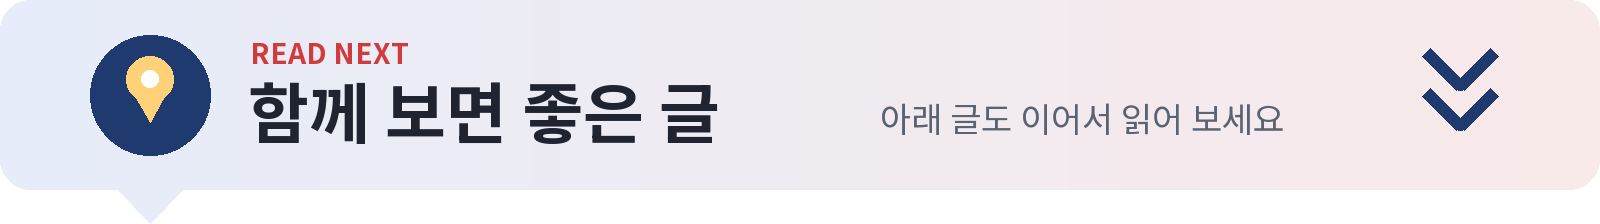
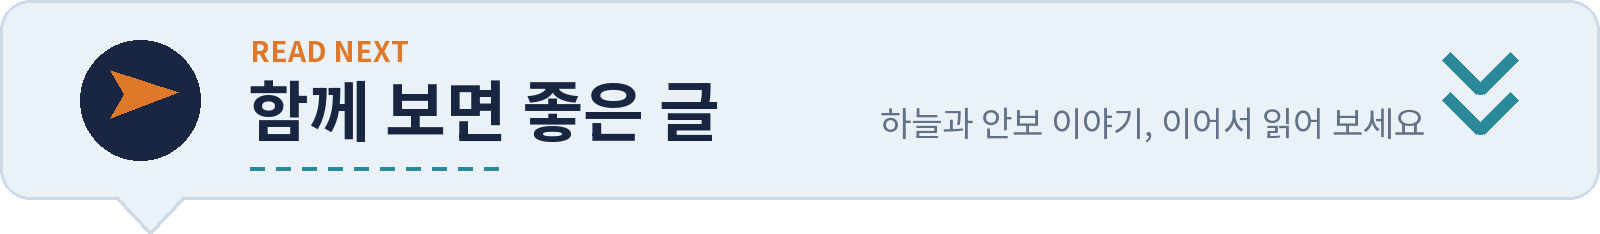
'함께 보면 좋은 글' 규칙 추가(모든 블로그에서 고르기, 블로그·카테고리·작성일 표기, 배너는 글마다 새로) 및 방공식별구역 글에 적용

diff --git a/문서/네이버-코딩가이드/20261124_방공식별구역-KADIZ/index.html b/문서/네이버-코딩가이드/20261124_방공식별구역-KADIZ/index.html
@@ -15,7 +15,7 @@
 - 02-세-가지-하늘.png (AI, 가로) — 영공·방공식별구역·비행정보구역의 넓이와 목적 차이(실제 지도 아닌 개념도)
 - 03-군용기가-들어오면.png (AI, 세로) — 통보 없이 들어온 군용기에 대한 대응 순서
 - 04-경계경보-공습경보.png (AI, 가로) — 두 경보의 뜻과 할 일
-- 05-함께-보면-좋은-글.png (공통 배너, 밝은색) — 위급재난문자 글(11/18)
+- 05-함께-보면-좋은-글.png (AI, 1600×234, 이 글 디자인에 맞춘 배너: 하늘빛·남색 원 안 주황 비행기) — 위급재난문자 글(11/18)·구글 지도 반출 글(11/16, 안보 때문에 막힌 지도 이야기). 모든 블로그에서 찾았으나 티스토리 쪽에는 맞는 글이 없었음
 
 [근거]
 - 영공·영해 12해리(약 22km): 영해 및 접속수역법, 국제법 일반 지식.
@@ -101,4 +101,5 @@
 <p style="font-size:16px;">두 말은 무게가 다릅니다.<br>뉴스를 볼 때 어느 쪽인지 먼저 보면, 상황을 훨씬 차분하게 읽을 수 있습니다.</p>
 
 <p style="font-size:16px;color:#e60000;font-weight:bold;">[[ 이미지: 함께 보면 좋은 글 (05-함께-보면-좋은-글.png) ]]</p>
-<p style="font-size:16px;">수능 위급재난문자, 재난문자 꺼 놨는데 왜 울릴까? (링크 자리)</p>
+<p style="font-size:16px;">수능 위급재난문자, 재난문자 꺼 놨는데 왜 울릴까? (네이버 코딩가이드 · 컴퓨터·IT · 2026.11.18 작성 · 링크 자리)</p>
+<p style="font-size:16px;">한국에서는 왜 구글 지도 길찾기가 안 될까? 20년 가까이 이어진 지도 반출 이야기 (네이버 코딩가이드 · 컴퓨터·IT · 2026.11.16 작성 · 링크 자리)</p>

diff --git a/AGENTS.md b/AGENTS.md
@@ -185,6 +185,8 @@
 - 사용자가 사진을 주더라도 그것만 쓰지 말고, 필요하면 도식·표·차트를 직접 만들고 만들기 어려운 그림은 `이미지요청.md`로 요청한다(사용자 요청).
 
 - **글 목록은 저장소 루트 `작성히스토리.md`에 남긴다**(사용자 지시, 2026-11-23: `index.html`·이미지가 없어져도 언제 어떤 글을 썼는지 잊지 않게). 2026-11-23에 그때까지 쓴 99편을 각 글의 발행 메모에서 뽑아 처음 만들었다. 쓰는 곳: ① '함께 보면 좋은 글'·링크 자리에 넣을 글을 고를 때 먼저 이 파일의 '주제별 찾아보기'·'주제 묶음'에서 찾는다 ② 사용자가 '언제 무슨 글을 썼나', '○○ 글 썼었나'를 물으면 이 파일로 답한다(블로그·작성일·제목·분류를 알려 준다) ③ 새 글을 쓰면 위 절차 6번대로 더한다. 날짜는 작성일(폴더 기준)이라 실제 발행일과 다를 수 있다. 발행 주소는 사용자가 알려 주거나 저장소에 적힌 것만 넣는다.
+- **'함께 보면 좋은 글'에 넣을 글은 같은 블로그에서만 찾지 말고, 이 저장소에서 쓰는 모든 블로그(네이버 코딩가이드·티스토리 코딩가이드·히스토리가이드·이코노미가이드)의 글 가운데 가장 잘 맞는 것을 고른다**(사용자 지시, 2026-11-24 방공식별구역 글부터). `작성히스토리.md`의 '주제별 찾아보기'·'주제 묶음'에서 블로그 구분 없이 찾는다. 링크 자리 줄에는 **[어느 블로그, 어느 카테고리, 언제]**를 반드시 함께 적는다(사용자 지시, 2026-11-24: 같은 블로그 글이어도 찾기 어렵다). 형식: `제목 (네이버 코딩가이드 · 컴퓨터·IT · 2026.11.18 작성 · 링크 자리)`. 카테고리·날짜는 `작성히스토리.md`의 '분류'와 작성일(폴더 날짜, 실제 발행일과 다를 수 있음)을 쓴다. 발행한 주소가 저장소에 있으면 그 주소를 넣는다. 작업 보고 때 링크 글을 알려 줄 때도 같은 세 가지를 붙인다.
+- **'함께 보면 좋은 글' 배너는 공통 이미지를 복사해 쓰지 않고, 글마다 그 글의 도식 디자인(바탕색·강조색·머리 아이콘·형식)에 맞춰 새로 만든다**(사용자 지시, 2026-11-24 방공식별구역 글부터. 아래 '공통 배너' 규칙을 바꾼다). 크기·구조는 공통 배너와 같게 둔다(1600×약 234, 'READ NEXT'·'함께 보면 좋은 글'·한 줄 안내·아래 화살표, 왼쪽 아래 말꼬리로 링크를 가리킴). 아이콘과 안내 문구는 글 주제에 맞게 바꾼다(예: 방공식별구역 글은 남색 원 안 주황 비행기·청록 점선, '하늘과 안보 이야기, 이어서 읽어 보세요'). 그림 스크립트에 배너 함수를 함께 둔다(예: scratchpad/tgs/adiz_banner.py). 공통 배너 원본(`자료실/공통-이미지/`)은 지우지 않고 참고용으로 둔다.
 - **'함께 보면 좋은 글' 배너 이미지를 공통으로 쓴다**(사용자 제안, 2026-11-18 자바 취약점·보안주 글부터). 원본은 `자료실/공통-이미지/함께-보면-좋은-글-남색.png`·`-밝은색.png`(1600×224, 왼쪽 핀 아이콘·'READ NEXT'·'아래 글도 이어서 읽어 보세요'·아래로 향한 화살표와 왼쪽 아래 말꼬리로 바로 아래 링크를 가리키는 모양). 글에 쓸 때는 그 글의 `images/`에 다음 번호로 복사하고(예: `09-함께-보면-좋은-글.png`) 본문에는 빨간 글씨 이미지 표시를 둔다. 배너 아래에는 링크 자리 줄을 보통 문단으로 둔다(사용자가 줄을 통째로 지우고 링크를 넣는다). 다시 만들 때는 `도구/함께보면좋은글_배너.py`.
 
 ## 문서 폴더 이름 (2026-11-13)
@@ -238,7 +240,7 @@
 - 2026-11-24: `문서/네이버-코딩가이드/20261124_방공식별구역-KADIZ/index.html` 작성("방공식별구역(KADIZ)이란? 영공과 무엇이 다를까", 카테고리 생활 정보, 공백 포함 1,715자 → 검수 뒤 2,110자). 네이트 관심뉴스(24일 아침 러시아 군용기 KADIZ 진입·울릉군 위급 문자) 기준 제안 1번. 그날 사건은 본문에 쓰지 않음.
   - 구성: 뉴스 속 한 문장 → 타이틀 → h3 한 줄로 말하면(청록) → 하늘의 세 가지 선(h3 영공 12해리·주권, h3 방공식별구역: 국제법상 영공 아님, 사전 통보는 관례, h3 비행정보구역: 인천 FIR) → KADIZ 역사(1951 미 태평양공군, 2013.12 확대: 이어도·마라도·홍도, 남쪽 경계를 인천 FIR과 맞춤, 한·중·일 구역 겹침) → 알리지 않고 들어오면(레이더 → 전투기 출격 → 경고 통신·감시, 영공 침범 시 2019년 독도 경고사격) → 경계경보·공습경보 할 일 → '뉴스에서 이 두 단어만 구분하면'. h3 기호 ▲.
   - 근거: KADIZ 확대 보도(2013)·백과사전, 2019 보도(사격 발수·침범 시간은 보도마다 달라 쓰지 않음), 행정안전부 민방공 경보 안내(지자체 페이지). 사이렌 방식은 자료마다 달라 쓰지 않음.
-  - 이미지 5장: AI 02 세 가지 구역 개념도(가로 1600, 실제 지도 아님·경계선이 서로 다름)·03 대응 순서(세로)·04 경계경보와 공습경보(가로 1440) — 하늘빛 바탕·남색·주황·청록, 머리에 비행기 삼각형과 점선, 스크립트 scratchpad/tgs/adiz.py. 05 배너(밝은색, 위급재난문자 글). ChatGPT 01 타이틀('방공식별구역 / 영공과 다를까?') 요청 중.
+  - 이미지 5장: AI 02 세 가지 구역 개념도(가로 1600, 실제 지도 아님·경계선이 서로 다름)·03 대응 순서(세로)·04 경계경보와 공습경보(가로 1440) — 하늘빛 바탕·남색·주황·청록, 머리에 비행기 삼각형과 점선, 스크립트 scratchpad/tgs/adiz.py. 05 배너(처음엔 공통 밝은색, 같은 날 사용자 지시로 이 글 디자인에 맞춘 배너로 새로 만듦: 하늘빛 바탕·남색 원 안 주황 비행기·청록 점선·청록 화살표, scratchpad/tgs/adiz_banner.py, 링크는 위급재난문자 글·구글 지도 반출 글). ChatGPT 01 타이틀('방공식별구역 / 영공과 다를까?') 요청 중.
   - 같은 날 외부 검수 다섯 가지 반영(공백 포함 2,110자): 비행정보구역은 'ICAO가 나라에 맡긴 구역' 대신 '비행 정보·경보 서비스를 제공하는 공역, ICAO 체계에 따라 나라별로 항공교통 업무 담당, 국제 공역 포함 가능', 사전 통보는 '절차를 두는 경우가 있다, 통보 없이 들어와도 그것만으로 영공 침범·국제법 위반 아님'('무단 진입' 표현 삭제), 군 대응은 '상황에 따라 전투기 출격·감시·차단 비행, 대응은 항공기 종류·경로·통보 여부·위협 수준에 따라 다름', 2019년은 '7월 23일 러시아 A-50이 독도 인근 영공 두 차례 침범, 경고 방송·차단 비행 뒤 경고사격, 러시아 군용기의 영공 침범은 처음', 경계경보는 '안내 방송 듣고 상황에 따라 대피 준비 또는 대피, 경계경보 단계에서도 지하 대피 안내가 나올 수 있어 준비만 하면 된다고 여기면 안 됨'. 그림 02(비행 정보·경보 서비스)·03(단계 문구, '보통은 여기까지' 삭제)·04(경계경보 할 일) 고침. **안보·경보 글 기준**: 군의 대응을 '곧바로 출격'처럼 한 가지 절차로 단정하지 말고 '상황에 따라'를 붙인다. 관례·절차를 국제법 의무처럼 쓰지 않는다. 낮은 단계 경보도 대피 안내가 나올 수 있다고 쓴다.
   - ChatGPT 01 타이틀 적용('방공식별구역 / 영공과 다를까?', 하늘에서 본 바다·섬, 주황·노랑 점선 원 두 개, 비행기 실루엣, 글자 정확, 로고·국기 없음, 가장 넓은 줄 약 81%, 크기만 맞춤, 원본 scratchpad/backup/adiz-01-original.png). 이미지 5장 완료, 대기 중인 요청 없음. 남은 일은 사용자의 네이버 발행(링크 줄 교체)뿐이다.
 - 2026-11-24: `문서/네이버-코딩가이드/20261124_추수감사절-미국증시/index.html` 작성("추수감사절 주간 미국 증시, 목요일 휴장·금요일 조기 마감", 카테고리 경제·투자, 공백 포함 1,889자 → 검수 뒤 2,365자). 추수감사절 소재 제안 C안을 네이버로.
